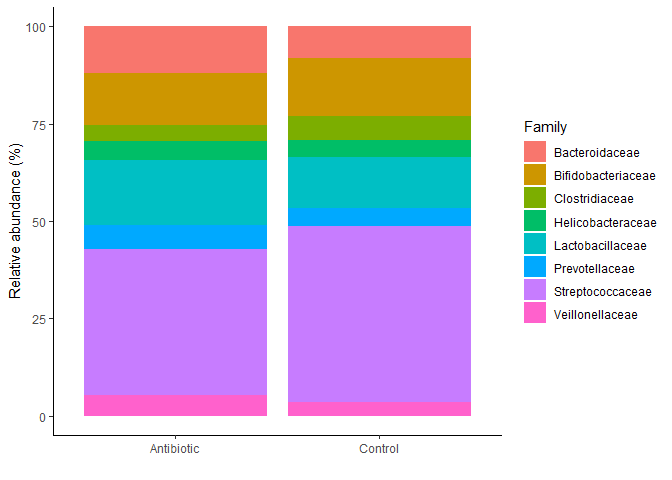
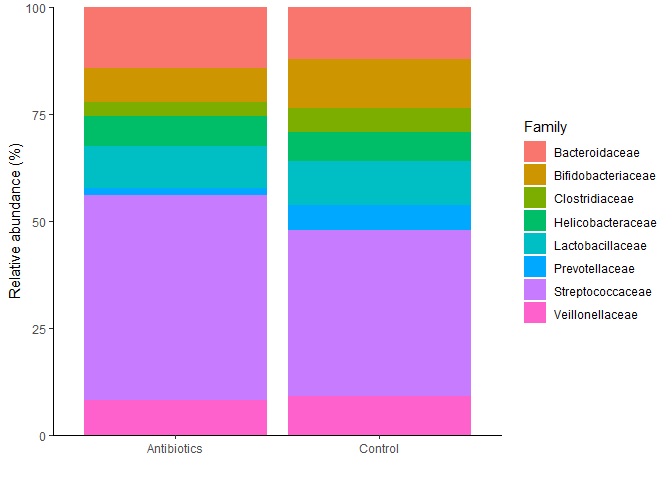
update of the boxplot code

diff --git a/Boxplot_taxonomy.md b/Boxplot_taxonomy.md
@@ -1,7 +1,7 @@
 Stack Barplot for taxonomy
 ================
 Sebastián Sáenz
-30/10/2020
+17/11/2020
 
 We are going to use **ggplot** to create our barplot. Load the library
 **tidyverse** or install it in case you have not done it before.
@@ -10,157 +10,220 @@ We are going to use **ggplot** to create our barplot. Load the library
 library(tidyverse)
 ```
 
-    ## -- Attaching packages ------------------------------------------------------------- tidyverse 1.3.0 --
+    ## -- Attaching packages -------------------------------------------------------------------------------------------- tidyverse 1.3.0 --
 
     ## v ggplot2 3.3.2     v purrr   0.3.4
     ## v tibble  3.0.3     v dplyr   1.0.2
     ## v tidyr   1.1.2     v stringr 1.4.0
     ## v readr   1.3.1     v forcats 0.5.0
 
-    ## -- Conflicts ---------------------------------------------------------------- tidyverse_conflicts() --
+    ## -- Conflicts ----------------------------------------------------------------------------------------------- tidyverse_conflicts() --
     ## x dplyr::filter() masks stats::filter()
     ## x dplyr::lag()    masks stats::lag()
 
-Next we are going to load our data. The relative abundance of the
-different taxa were previously calculated.
+Load the data files. The file `mock_tax.txt` containst the taxonomic
+annotation and `meta_tax.txt` contains the metadata of the samples.
 
-**check.names** prevent that R would change your column names. Use
-**str()** to get information about your data frame. In this case we have
-17 rows and 8 columns. **str()** also show you what kind of variable you
-have.
+`check.names` prevent that R would change your column names. Use `str()`
+to get information about your data files. In this case we have 17 rows
+and 8 columns in the `mock_tax.txt` . `str()` also show you what kind of
+variables you have.
 
 ``` r
-df <- read.table("mock_tax.txt",
+taxonomy_df <- read.table("mock_tax.txt",
                  header = TRUE,
                  sep = "\t",
                  check.names = FALSE)
 
-str(df)
+meta_df <- read.table("meta_tax.txt",
+                      header = TRUE,
+                      sep = "\t",
+                      check.names = FALSE)
+
+
+str(taxonomy_df)
 ```
 
     ## 'data.frame':    17 obs. of  8 variables:
-    ##  $ Phylum    : Factor w/ 4 levels "Actinobacteria",..: 2 1 3 3 3 1 4 3 3 3 ...
-    ##  $ Family    : Factor w/ 8 levels "Bacteroidaceae",..: 6 2 3 5 7 2 4 7 7 7 ...
-    ##  $ Control   : num  3.18 3.95 6.69 11.78 5.18 ...
-    ##  $ Control   : num  10.06 8.33 4.21 3.31 10.53 ...
-    ##  $ Control   : num  1.12 5.66 7.11 5.45 3.61 ...
-    ##  $ Antibiotic: num  7.1 2.4 4.12 8.9 4.7 ...
-    ##  $ Antibiotic: num  3.43 8 4.82 5.91 1.89 ...
-    ##  $ Antibiotic: num  8.29 9.64 3.23 8.27 6.26 ...
-
-Let´s check if the data was imported correctly by summing the abundance
-of every taxa in each sample. The result must be 100 per column.
+    ##  $ Phylum: chr  "Bacteroidetes" "Actinobacteria" "Firmicutes" "Firmicutes" ...
+    ##  $ Family: chr  "Prevotellaceae" "Bifidobacteriaceae" "Clostridiaceae" "Lactobacillaceae" ...
+    ##  $ 1A    : int  740 130 715 450 858 537 746 600 423 942 ...
+    ##  $ 1B    : int  265 804 822 927 820 736 632 262 860 581 ...
+    ##  $ 1C    : int  605 296 170 428 807 988 618 925 452 738 ...
+    ##  $ 2A    : int  621 907 345 681 690 889 681 1072 973 865 ...
+    ##  $ 2B    : int  160 948 679 692 626 660 1182 1722 1171 1711 ...
+    ##  $ 2C    : int  60 218 781 64 385 527 1894 1864 1834 1566 ...
 
 ``` r
-colSums(df[3:8])
+str(meta_df)
 ```
 
-    ##      Control    Control.1    Control.2   Antibiotic Antibiotic.1 Antibiotic.2 
-    ##          100          100          100          100          100          100
+    ## 'data.frame':    6 obs. of  2 variables:
+    ##  $ Sample   : chr  "1A" "1B" "1C" "2A" ...
+    ##  $ Treatment: chr  "Control" "Control" "Control" "Antibiotics" ...
 
-Next we transform our df to a longer format as it is easier to use with
-**ggplot**. We create two new variables **Treatment** and **Abundance**.
-Treatment would receive all the column names and Abundance all the
-values.
+Next, Calculate the relative abundance using a function.
 
 ``` r
-df_long <- pivot_longer(df, cols = c(3:4),
-             names_to = "Treatment",
+tax_rel_abu <- apply(taxonomy_df[3:8], 2, function(x){(x/sum(x))*100})
+```
+
+Let´s check if the data was transformed correctly by summing the
+abundance of every taxa in each sample. The result must be 100 per
+column.
+
+``` r
+colSums(tax_rel_abu)
+```
+
+    ##  1A  1B  1C  2A  2B  2C 
+    ## 100 100 100 100 100 100
+
+The new df **tax\_rel\_abu** only contains the relative abundances. The
+taxonomic data should be merge with this file.
+
+``` r
+rel_abu_tax <- cbind(taxonomy_df[1:2], tax_rel_abu)
+```
+
+Check the new df **rel\_abu\_tax**
+
+Following, transform the df to a longer format as it is easier to use
+with **ggplot**. We create two new variables **Treatment** and
+**Abundance**. Treatment would receive all the column names and
+Abundance all the values. `head()` would show you the first rows of your
+df.
+
+``` r
+rel_df_long <- pivot_longer(rel_abu_tax, cols = c(3:8),
+             names_to = "Sample",
              values_to ="Abundance")
 
-str(df_long)
+head(rel_df_long)
 ```
 
-    ## tibble [102 x 4] (S3: tbl_df/tbl/data.frame)
-    ##  $ Phylum   : Factor w/ 4 levels "Actinobacteria",..: 2 2 2 2 2 2 1 1 1 1 ...
-    ##  $ Family   : Factor w/ 8 levels "Bacteroidaceae",..: 6 6 6 6 6 6 2 2 2 2 ...
-    ##  $ Treatment: chr [1:102] "Control" "Control" "Control" "Antibiotic" ...
-    ##  $ Abundance: num [1:102] 3.18 10.06 1.12 7.1 3.43 ...
+    ## # A tibble: 6 x 4
+    ##   Phylum        Family         Sample Abundance
+    ##   <chr>         <chr>          <chr>      <dbl>
+    ## 1 Bacteroidetes Prevotellaceae 1A         8.23 
+    ## 2 Bacteroidetes Prevotellaceae 1B         2.22 
+    ## 3 Bacteroidetes Prevotellaceae 1C         6.65 
+    ## 4 Bacteroidetes Prevotellaceae 2A         3.81 
+    ## 5 Bacteroidetes Prevotellaceae 2B         0.827
+    ## 6 Bacteroidetes Prevotellaceae 2C         0.344
 
-Now we have 102 rows and 4 columns.
-
-After, we calculate the mean relative abundance of every Family among
-the treatments. We can use **group\_by()** to establish groups of data.
-Then those groups would be summarise with a new variable that we create.
-In this case the new variable is **relative\_abundance**
+After, use the metadatata `meta_df` to add information about your
+samples to our taxonomy df
 
 ``` r
-relative_abundace <- df_long %>%
+full_rel_abu <- full_join(rel_df_long, meta_df, by = "Sample")
+
+head(full_rel_abu)
+```
+
+    ## # A tibble: 6 x 5
+    ##   Phylum        Family         Sample Abundance Treatment  
+    ##   <chr>         <chr>          <chr>      <dbl> <chr>      
+    ## 1 Bacteroidetes Prevotellaceae 1A         8.23  Control    
+    ## 2 Bacteroidetes Prevotellaceae 1B         2.22  Control    
+    ## 3 Bacteroidetes Prevotellaceae 1C         6.65  Control    
+    ## 4 Bacteroidetes Prevotellaceae 2A         3.81  Antibiotics
+    ## 5 Bacteroidetes Prevotellaceae 2B         0.827 Antibiotics
+    ## 6 Bacteroidetes Prevotellaceae 2C         0.344 Antibiotics
+
+Now we have 102 rows and 5 columns, including metadata about treatment.
+
+After, we calculate the mean relative abundance of every Family among
+the treatments. We can use `group_by()` to establish groups of data.
+Then those groups would be summarise with a new variable that we create.
+In this case the new variable is **relative\_abundance**. You can create
+several new variables to describe your samples. Lets add the standard
+deviaton of the abundances `sd = sd(Abundance)`
+
+``` r
+mean_relative_abundace <- full_rel_abu %>%
     group_by(Family, Treatment) %>%
-    summarise(relative_abundance = sum(Abundance)/3)
+    summarise(mean_rel = sum(Abundance)/3,
+              sd = sd(Abundance))
 ```
 
     ## `summarise()` regrouping output by 'Family' (override with `.groups` argument)
 
-``` r
-relative_abundace
-```
-
-    ## # A tibble: 16 x 3
-    ## # Groups:   Family [8]
-    ##    Family             Treatment  relative_abundance
-    ##    <fct>              <chr>                   <dbl>
-    ##  1 Bacteroidaceae     Antibiotic              12.1 
-    ##  2 Bacteroidaceae     Control                  8.15
-    ##  3 Bifidobacteriaceae Antibiotic              13.3 
-    ##  4 Bifidobacteriaceae Control                 15.0 
-    ##  5 Clostridiaceae     Antibiotic               4.05
-    ##  6 Clostridiaceae     Control                  6.00
-    ##  7 Helicobacteraceae  Antibiotic               4.80
-    ##  8 Helicobacteraceae  Control                  4.51
-    ##  9 Lactobacillaceae   Antibiotic              16.7 
-    ## 10 Lactobacillaceae   Control                 13.0 
-    ## 11 Prevotellaceae     Antibiotic               6.27
-    ## 12 Prevotellaceae     Control                  4.79
-    ## 13 Streptococcaceae   Antibiotic              37.6 
-    ## 14 Streptococcaceae   Control                 45.1 
-    ## 15 Veillonellaceae    Antibiotic               5.18
-    ## 16 Veillonellaceae    Control                  3.42
-
-## Ploting
+## Plotting
 
 Finally, we can plot our data. Lets try 3 different versions of barplot.
-In all of them we have to use **geom\_bar(stat = ‘identity’)**, because
-we do not want any statistical transformation of our data.
+In all of them we have to use `geom_bar(stat = 'identity')`, because we
+do not want any statistical transformation of our data.
 
-### 1\) Normal stack barplot.
+### 1a) Normal stack barplot, automatic colors
 
 ``` r
-relative_abundace %>%
-  ggplot(aes(x = Treatment, y = relative_abundance, fill = Family)) +
+mean_relative_abundace %>%
+  ggplot(aes(x = Treatment, 
+             y = mean_rel, 
+             fill = Family)) +
   geom_bar(stat = 'identity') +
-  ylab("Relative abundance (%)") +
-  xlab("") +
+  labs(x = "", y = "Relative abundance (%)") +
+  scale_y_continuous(expand = c(0, 0)) +
   theme_classic()
 ```
 
 ![](Boxplot_taxonomy_files/figure-gfm/Normal%20plot-1.png)<!-- -->
 
-### 2\) Unstack bars using **position = position\_dodge()**.
+### 1b) Stack barplot, add colors manually
+
+You can get differetn palletes codes or color codes from
+[ColorBrewer](https://colorbrewer2.org/#type=sequential&scheme=BuGn&n=3)
 
 ``` r
-relative_abundace %>%
-  ggplot(aes(x = Treatment, y = relative_abundance, fill = Family)) +
+col_list <- c('#d53e4f','#f46d43','#fdae61','#fee08b','#ffffbf','#e6f598','#abdda4','#66c2a5','#3288bd')
+
+mean_relative_abundace %>%
+  ggplot(aes(x = Treatment, 
+             y = mean_rel, 
+             fill = Family)) +
+  geom_bar(stat = 'identity')+
+  labs(x = "", y = "Relative abundance (%)") +
+  scale_fill_manual(values = col_list) +
+  scale_y_continuous(expand = c(0, 0)) +
+  theme_classic()
+```
+
+![](Boxplot_taxonomy_files/figure-gfm/unnamed-chunk-7-1.png)<!-- -->
+
+### 2\) Unstack bars using `position = position_dodge()`.
+
+You can use the standar deviation with `geom_errorbar()`
+
+``` r
+mean_relative_abundace %>%
+  ggplot(aes(x = Treatment, y = mean_rel, fill = Family)) +
   geom_bar(stat = 'identity',
            position = position_dodge()) +
+  geom_errorbar(aes(ymin = mean_rel-sd, ymax = mean_rel+sd), width=.2,
+                 position=position_dodge(.9)) +
   ylab("Relative abundance (%)") +
   xlab("") +
+  scale_y_continuous(expand = c(0,0)) +
   theme_classic()
 ```
 
 ![](Boxplot_taxonomy_files/figure-gfm/Unstack%20bars-1.png)<!-- -->
 
-### 3\) An independent plot for every Family using **facet\_wrap(\~Family)**.
+### 3\) An independent plot for every Family using `facet_wrap(~Family)`.
 
 ``` r
-relative_abundace %>%
-  ggplot(aes(x = Treatment, y = relative_abundance, fill = Family)) +
+mean_relative_abundace %>%
+  ggplot(aes(x = Treatment, y = mean_rel, fill = Family)) +
   geom_bar(stat = 'identity',
            position = position_dodge()) +
+  geom_errorbar(aes(ymin=mean_rel-sd, ymax=mean_rel+sd), width=.2,
+                 position=position_dodge(.9)) +
   ylab("Relative abundance (%)") +
   xlab("") +
   facet_wrap(~Family) +
-  theme_bw()
+  scale_y_continuous(expand = c(0,0)) +
+  theme_classic()
 ```
 
 ![](Boxplot_taxonomy_files/figure-gfm/facet%20plot-1.png)<!-- -->
